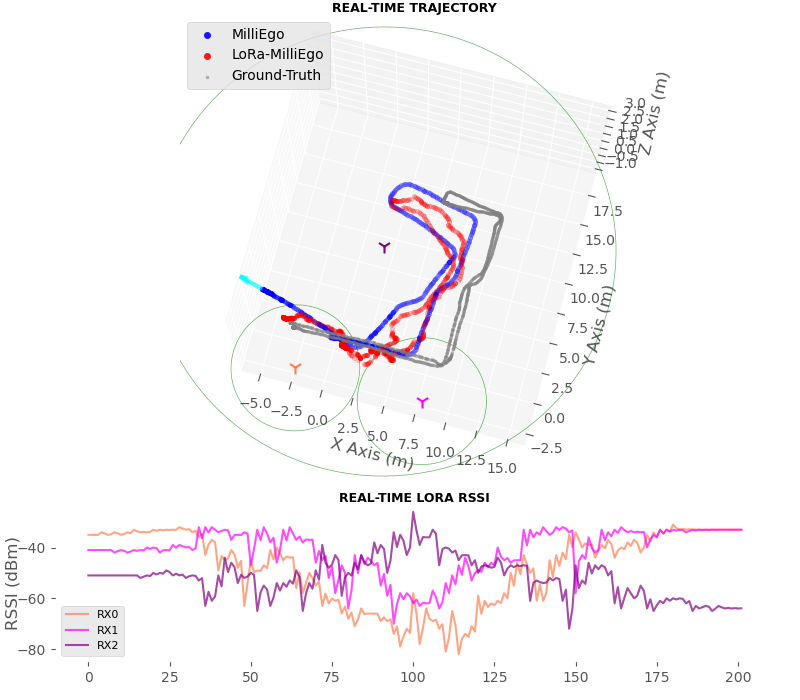
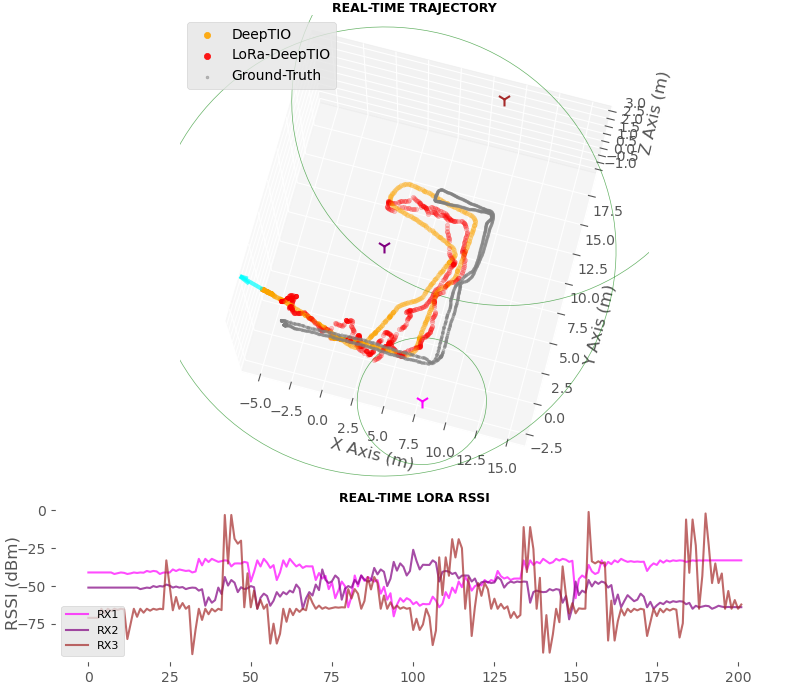
Updated presentation

diff --git a/EKF.py b/EKF.py
@@ -23,13 +23,13 @@ import matplotlib
 
 
 # LoRa RX Coordinates in order of Pi-IP: 93, 94, 95, 96, 97
-
+'''
 R1 = np.array([[-2., 10., 0.],
                [12., 10., 0.],
                [13., -1., 0.],
                [5., -1.5, 0.],
                [-5., 4., 0.]])
-
+'''
 # Rotated coordinates for RightHand search
 '''
 R1 = np.array([[10., 2., 0.],
@@ -60,14 +60,14 @@ R1 = np.array([[-2., -3., 0.],
                [8., 22., 0.],
                [2.5, 22, 0.]])
 '''
-'''
+
 # 61 ApartmentInOut3
 R1 = np.array([[-2., -3., 0.],
                [8., -3, 0.],
                [2., 8., 0.],
                [8., 22., 0.],
                [2.5, 22, 0.]])
-'''
+
 # Path Loss Model params
 ALPHA = -55#-45.712  # -28.57 * 1.6
 BETA = -5.06
@@ -766,16 +766,18 @@ class EKF_Fusion():
             self.cir_dict[anchor_idx].remove()
 
         if self.isOdomShow:
-            self.handle_scat = self.ax21.scatter([traj[odom_idx][0]], [traj[odom_idx][1]], [traj[odom_idx][2]], s=mark_size, color='b', marker='o', alpha=.9, label='MilliEgo')
+            #self.handle_scat = self.ax21.scatter([traj[odom_idx][0]], [traj[odom_idx][1]], [traj[odom_idx][2]], s=mark_size, color='b', marker='o', alpha=.9, label='MilliEgo')
+            self.handle_scat = self.ax21.scatter([traj[odom_idx][0]], [traj[odom_idx][1]], [traj[odom_idx][2]], s=mark_size, color='orange', marker='o', alpha=.9, label='DeepTIO')
         if self.isLoRaOdomShow:
             self.handle_arrw = self.ax21.quiver([traj[odom_idx][0]], [traj[odom_idx][1]], [traj[odom_idx][2]], u, v, w, color='cyan', length=2., arrow_length_ratio=0.4, linewidths=3., alpha=.7)
-            self.handle_scat_ekf = self.ax21.scatter([traj_fuse[-1][0, 0]], [traj_fuse[-1][1, 0]], [0.], s=mark_size, color='r', marker='o', alpha=.9, label='LoRa-MilliEgo')
+            #self.handle_scat_ekf = self.ax21.scatter([traj_fuse[-1][0, 0]], [traj_fuse[-1][1, 0]], [0.], s=mark_size, color='r', marker='o', alpha=.9, label='LoRa-MilliEgo')
+            self.handle_scat_ekf = self.ax21.scatter([traj_fuse[-1][0, 0]], [traj_fuse[-1][1, 0]], [0.], s=mark_size, color='r', marker='o', alpha=.9, label='LoRa-DeepTIO')
             # Not Attempting to Visual EKF Updated Orientation
             #self.handle_arrw_ekf = self.ax21.quiver([self.my_kf.x[0, 0]], [self.my_kf.x[1, 0]], [self.my_kf.x[2, 0]], self.U_ekf, self.V_ekf, self.W_ekf, color='r', length=1., alpha=.7)
 
         # Manually Equal Axis and Limit
-        #self.ax21.auto_scale_xyz([-5, 15], [-2, 18], [-1, 3])  # 61Apartment view
-        self.ax21.auto_scale_xyz([-2.5, 12.5], [-5, 10], [-1, 3])  # Left* search view
+        self.ax21.auto_scale_xyz([-5, 15], [-2, 18], [-1, 3])  # 61Apartment view
+        #self.ax21.auto_scale_xyz([-2.5, 12.5], [-5, 10], [-1, 3])  # Left* search view
         #self.ax21.auto_scale_xyz([-2.5, 12.5], [-12.5, 2.5], [-1, 3])  # RightVicon2 view
         #self.ax21.auto_scale_xyz([-5, 15], [-15, 5], [-1, 3])  # OneAnchorTest view
 
@@ -845,10 +847,12 @@ class EKF_Fusion():
         '''
 
         if self.isOdomShow:
-            self.handle_scat = self.ax21.scatter(x, y, z, s=mark_size, color='b', marker='o', alpha=.9, label='MilliEgo')
+            #self.handle_scat = self.ax21.scatter(x, y, z, s=mark_size, color='b', marker='o', alpha=.9, label='MilliEgo')
+            self.handle_scat = self.ax21.scatter(x, y, z, s=mark_size, color='orange', marker='o', alpha=.9, label='DeepTIO')
         if self.isLoRaOdomShow:
             self.handle_arrw = self.ax21.quiver(x, y, z, u, v, w, color='b', length=2., arrow_length_ratio=0.3, linewidths=3., alpha=.7)
-            self.handle_scat_ekf = self.ax21.scatter(X, Y, Z, s=mark_size, color='r', marker='o', alpha=.9, label='LoRa-MilliEgo')
+            #self.handle_scat_ekf = self.ax21.scatter(X, Y, Z, s=mark_size, color='r', marker='o', alpha=.9, label='LoRa-DeepTIO')
+            self.handle_scat_ekf = self.ax21.scatter(X, Y, Z, s=mark_size, color='r', marker='o', alpha=.9, label='LoRa-DeepTIO')
 
         # Plot CUSTOM path
         if self.iscustom:
@@ -902,7 +906,7 @@ class EKF_Fusion():
             RotEular = quat2euler(q)
 
             t0 = datetime.utcfromtimestamp(Times[i, 0] + Times[i, 1] / (10 ** 9))
-            abs_x = Trans[i, 0] - 0  # -3 to patch ApartmentInOut3
+            abs_x = Trans[i, 0] - 3.7  # calibrate scale: 0 / -3 to patch ApartmentInOut3
             abs_y = Trans[i, 1]
             abs_yaw = RotEular[2]
 

diff --git a/ReplayModalities.py b/ReplayModalities.py
@@ -99,8 +99,8 @@ def main():
     # 0420RightViconLast_crossmio: '2021-04-20-14-42-41'
     # 0421RightViconLast_crossmio: '2021-04-21-14-43-47'
     # ApartmentInOut3: '2021-04-28-23-39-11'
-    GtDate = '2021-03-24-15-45-47'
-    RxIP_lst = ['94', '95', '97' ]
+    GtDate = '2021-04-28-23-39-11'
+    RxIP_lst = ['94', '95', '96' ]
     RxLst = [int(idx) - 93 for idx in RxIP_lst]
 
     ekf = EKF_OriginFusion(anchorLst=RxLst, ismdn=False, dense=True, GtDirDate=GtDate)
@@ -146,7 +146,7 @@ def main():
                 recv_idx += 1
                 #print(ekf.xs)
 
-                if recv_idx > 120:
+                if recv_idx > 100:
                     break
 
 

diff --git a/README.md b/README.md
@@ -6,30 +6,26 @@ Replay data reception and Visualise path in a pack of 10 Odometry outputs by
 ./rx_lora.py LST 10
 ```
 
-We investigated localisation performance in the Oxford building scenario as below. Red triangles are deployed LoRa RX nodes. We mainly traversed the square-shaped corridors and the middle room 209. LiDAR provided cm-magnitude of accuracy which is regarded as ground-truth path marked in grey. Extended Kalman Filter (EKF) and Particle Filters (PF) are utilized to conduct location fusion.
+We investigated localisation performance in a department building scenario as below. Red triangles are deployed LoRa RX nodes. We mainly traversed the square-shaped corridors and the middle office. Extended Kalman Filter (EKF) and Particle Filters (PF) are experimented for positioning fusion.
 
 ![rhb](https://github.com/zdai257/LoRaRX/blob/main/Trajectory/rhb_RXs.png)
 
 ### Extended Kalman Filter
 
-Three-round right-hand search:
+Three-round right-hand search along corridor:
 
 ![left3](https://github.com/zdai257/LoRaRX/blob/main/Trajectory/demo0324Left3.png)
 
-Two-round right-hand search entering Vicon room in the 1st lap:
+Two-round walk and searching the middle room:
 
 ![leftvicon2](https://github.com/zdai257/LoRaRX/blob/main/Trajectory/demo0324LeftVicon2.png)
 
-Two-round right-hand search entering Vicon room in the 2nd lap:
-
-![rightviconlast](https://github.com/zdai257/LoRaRX/blob/main/Trajectory/demo0421RightViconLast.png)
-
-Ground-floor apartment search interior and outside:
+In and out from a gound-floor apartment to an open car park with DeepTIO:
 
 ![ApartmentInOut3](https://github.com/zdai257/LoRaRX/blob/main/Trajectory/ApartmentInOut3.png)
 
 ### SIR Particle Filter
 
-Two-round right-hand search using Particle Filter at 1Hz refresh rate:
+Two-round right-hand search using Particle Filter instead:
 
 ![pf_left2](https://github.com/zdai257/LoRaRX/blob/main/Trajectory/demo0.png)
